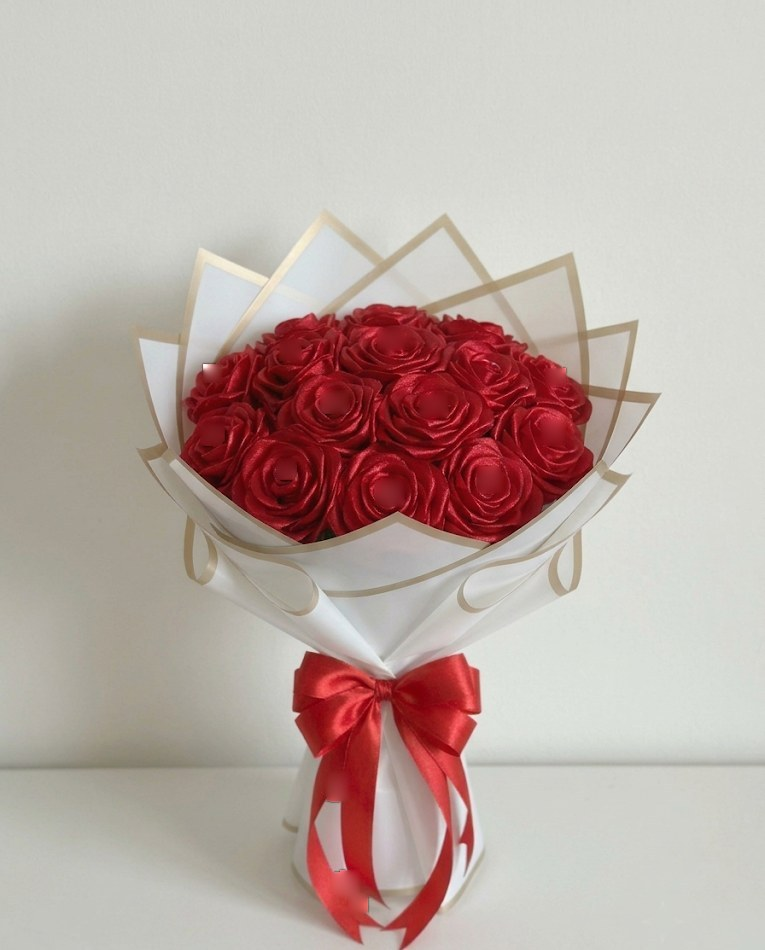
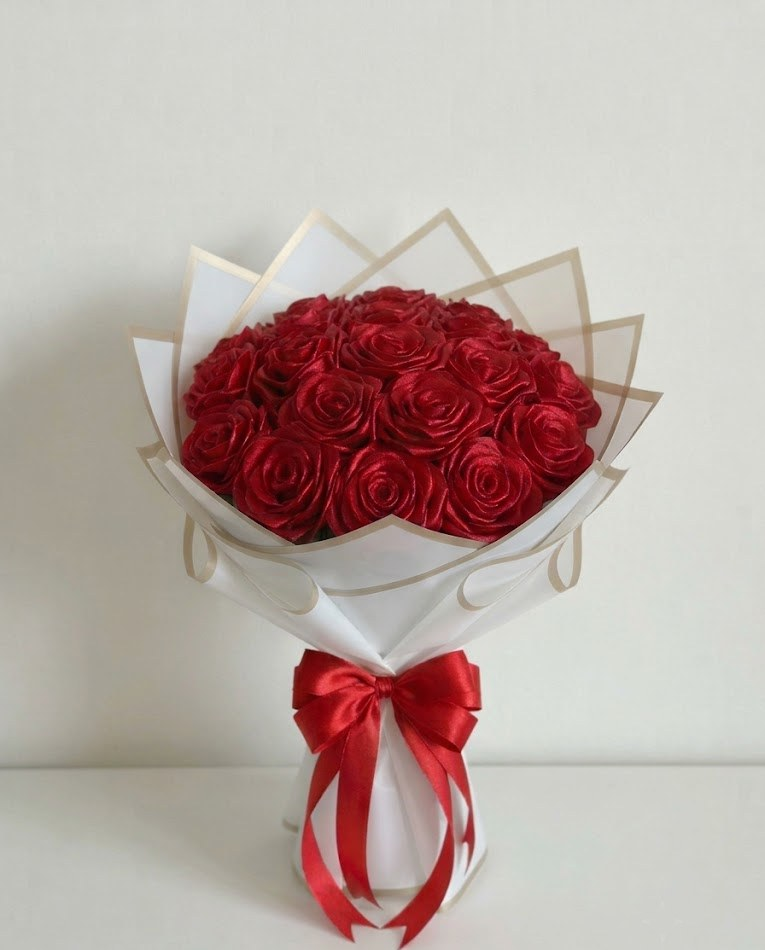
Pearl-free photos for 13, 17 and 20 red roses in white wrap
Claude-Session: https://claude.ai/code/session_01GvQGKs82VGAi27JdspmeE6

diff --git a/about.html b/about.html
@@ -6,7 +6,7 @@
 <link rel="preconnect" href="https://fonts.googleapis.com">
 <link rel="preconnect" href="https://fonts.gstatic.com" crossorigin>
 <link href="https://fonts.googleapis.com/css2?family=Great+Vibes&family=Playfair+Display:wght@500;600;700&family=Poppins:wght@400;500;600&display=swap" rel="stylesheet">
-<link rel="stylesheet" href="assets/css/styles.css?v=202610230932">
+<link rel="stylesheet" href="assets/css/styles.css?v=202610230949">
 <link rel="icon" href="assets/favicon.svg" type="image/svg+xml">
 <title>About Our Flowers | Fleure</title>
 <meta name="description" content="Handmade bouquets shaped by hand from soft pipe cleaners and satin ribbon, made slowly in a small studio.">
@@ -53,9 +53,9 @@
     <a class="btn btn-outline" href="custom.html">Place a custom order</a>
   </div>
 </main>
-<script src="assets/js/data.js?v=202610230932"></script>
-<script src="assets/js/bouquet.js?v=202610230932"></script>
-<script src="assets/js/app.js?v=202610230932"></script>
+<script src="assets/js/data.js?v=202610230949"></script>
+<script src="assets/js/bouquet.js?v=202610230949"></script>
+<script src="assets/js/app.js?v=202610230949"></script>
 <script>document.getElementById("arrange-img").src = productImage(byId("sunflower-rose-tulip"));
 document.querySelectorAll("[data-icon]").forEach((el) => (el.innerHTML = ICONS[el.dataset.icon]));</script>
 </body>

diff --git a/contact.html b/contact.html
@@ -6,7 +6,7 @@
 <link rel="preconnect" href="https://fonts.googleapis.com">
 <link rel="preconnect" href="https://fonts.gstatic.com" crossorigin>
 <link href="https://fonts.googleapis.com/css2?family=Great+Vibes&family=Playfair+Display:wght@500;600;700&family=Poppins:wght@400;500;600&display=swap" rel="stylesheet">
-<link rel="stylesheet" href="assets/css/styles.css?v=202610230932">
+<link rel="stylesheet" href="assets/css/styles.css?v=202610230949">
 <link rel="icon" href="assets/favicon.svg" type="image/svg+xml">
 <title>Contact | Fleure</title>
 <meta name="description" content="Have a question, an idea or a custom request? Reach us on WhatsApp.">
@@ -35,9 +35,9 @@
   </section>
   <div class="thanks"><span class="script">Thank you</span>for supporting handmade</div>
 </main>
-<script src="assets/js/data.js?v=202610230932"></script>
-<script src="assets/js/bouquet.js?v=202610230932"></script>
-<script src="assets/js/app.js?v=202610230932"></script>
+<script src="assets/js/data.js?v=202610230949"></script>
+<script src="assets/js/bouquet.js?v=202610230949"></script>
+<script src="assets/js/app.js?v=202610230949"></script>
 <script>
   document.querySelectorAll("[data-wa]").forEach((a) => (a.href = waLink(a.dataset.wa)));
   document.querySelectorAll("[data-icon]").forEach((el) => (el.innerHTML = ICONS[el.dataset.icon]));

diff --git a/index.html b/index.html
@@ -6,7 +6,7 @@
 <link rel="preconnect" href="https://fonts.googleapis.com">
 <link rel="preconnect" href="https://fonts.gstatic.com" crossorigin>
 <link href="https://fonts.googleapis.com/css2?family=Great+Vibes&family=Playfair+Display:wght@500;600;700&family=Poppins:wght@400;500;600&display=swap" rel="stylesheet">
-<link rel="stylesheet" href="assets/css/styles.css?v=202610230932">
+<link rel="stylesheet" href="assets/css/styles.css?v=202610230949">
 <link rel="icon" href="assets/favicon.svg" type="image/svg+xml">
 <title>Fleure | Handmade Flower Bouquets</title>
 <meta name="description" content="Handmade forever flowers that never wilt: pipe-cleaner and satin ribbon bouquets, made to order. Order on WhatsApp.">
@@ -72,9 +72,9 @@
     </div>
   </section>
 </main>
-<script src="assets/js/data.js?v=202610230932"></script>
-<script src="assets/js/bouquet.js?v=202610230932"></script>
-<script src="assets/js/app.js?v=202610230932"></script>
+<script src="assets/js/data.js?v=202610230949"></script>
+<script src="assets/js/bouquet.js?v=202610230949"></script>
+<script src="assets/js/app.js?v=202610230949"></script>
 <script>
   document.querySelectorAll("[data-shop-name]").forEach((el) => (el.textContent = SHOP.name));
   document.querySelectorAll("[data-wa]").forEach((a) => (a.href = waLink(a.dataset.wa)));

diff --git a/how-to-order.html b/how-to-order.html
@@ -6,7 +6,7 @@
 <link rel="preconnect" href="https://fonts.googleapis.com">
 <link rel="preconnect" href="https://fonts.gstatic.com" crossorigin>
 <link href="https://fonts.googleapis.com/css2?family=Great+Vibes&family=Playfair+Display:wght@500;600;700&family=Poppins:wght@400;500;600&display=swap" rel="stylesheet">
-<link rel="stylesheet" href="assets/css/styles.css?v=202610230932">
+<link rel="stylesheet" href="assets/css/styles.css?v=202610230949">
 <link rel="icon" href="assets/favicon.svg" type="image/svg+xml">
 <title>How to Order + FAQ | Fleure</title>
 <meta name="description" content="How to order a handmade bouquet on WhatsApp, plus answers about flower care, delivery and payment.">
@@ -41,9 +41,9 @@
     </div>
   </section>
 </main>
-<script src="assets/js/data.js?v=202610230932"></script>
-<script src="assets/js/bouquet.js?v=202610230932"></script>
-<script src="assets/js/app.js?v=202610230932"></script>
+<script src="assets/js/data.js?v=202610230949"></script>
+<script src="assets/js/bouquet.js?v=202610230949"></script>
+<script src="assets/js/app.js?v=202610230949"></script>
 <script>
   document.querySelectorAll("[data-wa]").forEach((a) => (a.href = waLink(a.dataset.wa)));
   document.querySelectorAll("[data-icon]").forEach((el) => (el.innerHTML = ICONS[el.dataset.icon]));

diff --git a/custom.html b/custom.html
@@ -6,7 +6,7 @@
 <link rel="preconnect" href="https://fonts.googleapis.com">
 <link rel="preconnect" href="https://fonts.gstatic.com" crossorigin>
 <link href="https://fonts.googleapis.com/css2?family=Great+Vibes&family=Playfair+Display:wght@500;600;700&family=Poppins:wght@400;500;600&display=swap" rel="stylesheet">
-<link rel="stylesheet" href="assets/css/styles.css?v=202610230932">
+<link rel="stylesheet" href="assets/css/styles.css?v=202610230949">
 <link rel="icon" href="assets/favicon.svg" type="image/svg+xml">
 <title>Build Your Own Bouquet | Fleure</title>
 <meta name="description" content="Create a custom handmade bouquet: choose flowers, colours, wrap and a gift note, then send your order on WhatsApp.">
@@ -55,9 +55,9 @@
     </form>
   </section>
 </main>
-<script src="assets/js/data.js?v=202610230932"></script>
-<script src="assets/js/bouquet.js?v=202610230932"></script>
-<script src="assets/js/app.js?v=202610230932"></script>
+<script src="assets/js/data.js?v=202610230949"></script>
+<script src="assets/js/bouquet.js?v=202610230949"></script>
+<script src="assets/js/app.js?v=202610230949"></script>
 <script>
   document.querySelectorAll("[data-wa]").forEach((a) => (a.href = waLink(a.dataset.wa)));
   document.getElementById("occasions").innerHTML = [

diff --git a/shop.html b/shop.html
@@ -6,7 +6,7 @@
 <link rel="preconnect" href="https://fonts.googleapis.com">
 <link rel="preconnect" href="https://fonts.gstatic.com" crossorigin>
 <link href="https://fonts.googleapis.com/css2?family=Great+Vibes&family=Playfair+Display:wght@500;600;700&family=Poppins:wght@400;500;600&display=swap" rel="stylesheet">
-<link rel="stylesheet" href="assets/css/styles.css?v=202610230932">
+<link rel="stylesheet" href="assets/css/styles.css?v=202610230949">
 <link rel="icon" href="assets/favicon.svg" type="image/svg+xml">
 <title>Shop Bouquets | Fleure</title>
 <meta name="description" content="Single flower, double flower and combination bouquets from ₹89, satin ribbon roses and special occasion bouquets. Handmade to order.">
@@ -22,9 +22,9 @@
   </div>
   <div id="rows"></div>
 </main>
-<script src="assets/js/data.js?v=202610230932"></script>
-<script src="assets/js/bouquet.js?v=202610230932"></script>
-<script src="assets/js/app.js?v=202610230932"></script>
+<script src="assets/js/data.js?v=202610230949"></script>
+<script src="assets/js/bouquet.js?v=202610230949"></script>
+<script src="assets/js/app.js?v=202610230949"></script>
 <script>
   const rows = document.getElementById("rows");
   const filters = document.getElementById("filters");

diff --git a/product.html b/product.html
@@ -6,7 +6,7 @@
 <link rel="preconnect" href="https://fonts.googleapis.com">
 <link rel="preconnect" href="https://fonts.gstatic.com" crossorigin>
 <link href="https://fonts.googleapis.com/css2?family=Great+Vibes&family=Playfair+Display:wght@500;600;700&family=Poppins:wght@400;500;600&display=swap" rel="stylesheet">
-<link rel="stylesheet" href="assets/css/styles.css?v=202610230932">
+<link rel="stylesheet" href="assets/css/styles.css?v=202610230949">
 <link rel="icon" href="assets/favicon.svg" type="image/svg+xml">
 <title>Bouquet | Fleure</title>
 <meta name="description" content="Handmade bouquet, made to order. Choose colours and wrap, and order on WhatsApp.">
@@ -19,9 +19,9 @@
     <div class="product-grid" id="related"></div>
   </section>
 </main>
-<script src="assets/js/data.js?v=202610230932"></script>
-<script src="assets/js/bouquet.js?v=202610230932"></script>
-<script src="assets/js/app.js?v=202610230932"></script>
+<script src="assets/js/data.js?v=202610230949"></script>
+<script src="assets/js/bouquet.js?v=202610230949"></script>
+<script src="assets/js/app.js?v=202610230949"></script>
 <script>
   const params = new URLSearchParams(location.search);
   const p = byId(params.get("id"));
